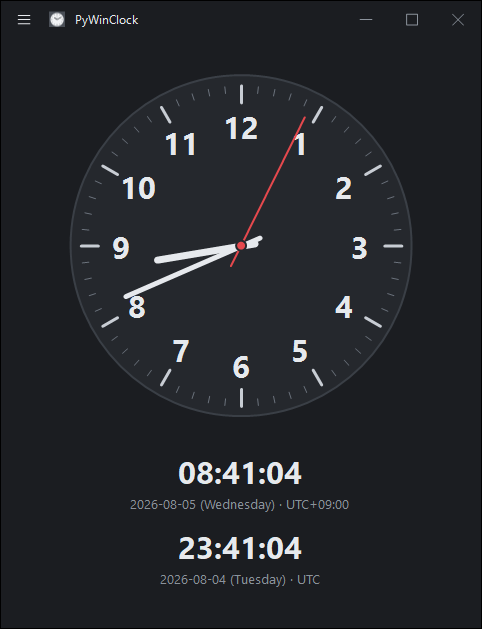
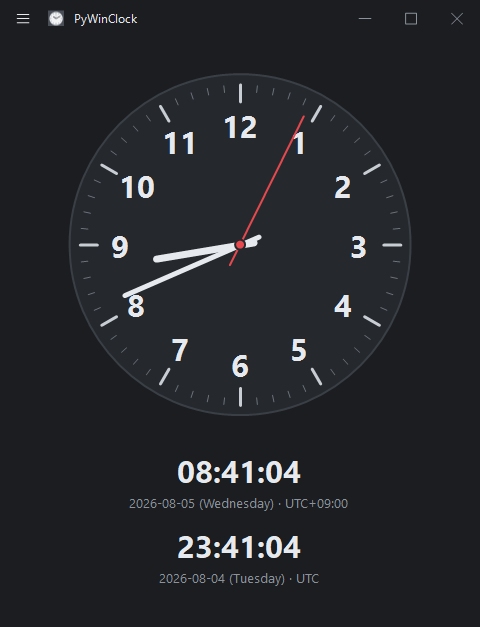
Repaint the smooth second hand only when its tip moves a pixel
- Track the drawn second-hand tip and skip ticks that move it less than
  one pixel; labels still trigger a full repaint every second.
- README: rewrite in the author's format, keep one screenshot and crop
  its 1px black border.

diff --git a/source/clockbox.py b/source/clockbox.py
@@ -33,9 +33,12 @@ class ClockCanvas(Canvas):
     smooth = True
     face_key = None
     face_bitmap = None
+    drawn_tip = None
 
     NUMERAL_RATIO = 0.125
     RIM_WIDTH = 2
+    SECOND_LENGTH = 0.84
+    MINIMAL_SECOND_LENGTH = 0.70
 
     TICK_OUTER = 0.97
     TICK_INNER = 0.90
@@ -61,6 +64,21 @@ class ClockCanvas(Canvas):
         minutes = now.minute + seconds / 60
         hours = now.hour % 12 + minutes / 60
         return hours / 12, minutes / 60, seconds / 60
+
+    def get_second_tip(self, face):
+        if self.preset == 'minimal':
+            length = face * self.MINIMAL_SECOND_LENGTH
+        else:
+            length = (face - self.RIM_WIDTH / 2) * self.SECOND_LENGTH
+        angle = math.radians(self.get_fractions()[2] * 360)
+        return (length * math.sin(angle), length * math.cos(angle))
+
+    def is_tip_moved(self):
+        if self.drawn_tip is None:
+            return True
+        width, height = self.GetClientSize()
+        x, y = self.get_second_tip(self.radius or min(width, height) / 2)
+        return math.hypot(x - self.drawn_tip[0], y - self.drawn_tip[1]) >= 1
 
     def get_background(self, width, height):
         face = self.radius or min(width, height) / 2
@@ -94,6 +112,7 @@ class ClockCanvas(Canvas):
         face = self.radius or min(width, height) / 2
         if not self.has_face(face):
             return
+        self.drawn_tip = self.get_second_tip(face)
         if self.preset == 'minimal':
             self.draw_minimal_hands(gc, cx, cy, face)
         else:
@@ -134,7 +153,7 @@ class ClockCanvas(Canvas):
         hours, minutes, seconds = self.get_fractions()
         self.draw_hand(gc, cx, cy, hours, radius * 0.50, 7, theme['hand'])
         self.draw_hand(gc, cx, cy, minutes, radius * 0.74, 5, theme['hand'])
-        self.draw_hand(gc, cx, cy, seconds, radius * 0.84, 2, theme['second'])
+        self.draw_hand(gc, cx, cy, seconds, radius * self.SECOND_LENGTH, 2, theme['second'])
 
         gc.SetPen(wx.Pen(wx.Colour(theme['face']), 2))
         gc.SetBrush(wx.Brush(wx.Colour(theme['second'])))
@@ -161,7 +180,8 @@ class ClockCanvas(Canvas):
         self.draw_hand(gc, cx, cy, minutes, radius * 0.82,
                        max(2, round(radius * 0.014)), theme['dim'])
         # a 1px diagonal loses half its weight to antialiasing, so it gets the tick colour
-        self.draw_hand(gc, cx, cy, seconds, radius * 0.70, 1, theme['tick_major'])
+        self.draw_hand(gc, cx, cy, seconds, radius * self.MINIMAL_SECOND_LENGTH, 1,
+                       theme['tick_major'])
 
         knob = max(3, round(radius * 0.035))
         gc.SetPen(wx.TRANSPARENT_PEN)
@@ -315,5 +335,5 @@ class ClockBox(wx.Panel):
         self.canvas.now = local
         if changed:
             self.Layout()
-        if changed or self.canvas.smooth:
+        if changed or self.canvas.smooth and self.canvas.is_tip_moved():
             self.canvas.Refresh()

diff --git a/README.md b/README.md
@@ -1,118 +1,23 @@
-# PyWinClock
-
-A Windows clock app drawn entirely on a wxPython canvas. Written as a replacement for
-TimeKit, a UWP clock app that has been delisted from the Microsoft Store.
-
-On a PC with Smart App Control enabled, a sideloaded MSIX cannot run without a trusted
-signature. Running local sources directly through `pythonw.exe` is not subject to that
-restriction, so this app is deliberately **not** packaged into a distributable build.
-
-![Clock](assets/images/screenshot-001.png)
-![Menu](assets/images/screenshot-006.png)
-![World](assets/images/screenshot-005.png)
-![Stopwatch](assets/images/screenshot-002.png)
-![Countdown](assets/images/screenshot-003.png)
-![Settings](assets/images/screenshot-004.png)
-
 ## Features
 
-- **Clock** — analog dial rendered with `wx.GraphicsContext` (smooth sweeping second hand),
-  digital readout, `2026-08-03 (Monday) · UTC+09:00` date line
-- **World** — an equirectangular map with the daylight side lit and a dot per city, over a
-  list of times with the date and the offset from local time as `±HH:MM`. Each row carries
-  a sun or a moon from the actual solar elevation there. Map and list point at each other:
-  hovering a dot outlines its row in the accent colour, and hovering a row grows its dot.
-  A toolbox floats at the bottom right: the plus adds a city (search by name or time zone),
-  the pencil turns on editing so every removable row shows a cross.
-- **Stopwatch** — start/pause, reset, and a `Laps / Time / Total` table that marks the
-  fastest and slowest lap. Newest lap first, scrolls with the wheel.
-- **Countdown** — progress ring over a rounded `HH:MM:SS` field with a minus and a plus
-  sitting inside it, each press moving the time by a minute. The field takes digits and
-  colons only and reads whatever is written — `90`, `0:0`, `01:30`, `00:01:30` all mean
-  the same thing — then writes it back as `HH:MM:SS` once you leave it. Start/pause/reset
-  below, and a blinking `DONE` with a beep at zero
-- **Settings** — 12/24-hour, local/UTC (the dial follows it too), always on top, auto hide
-  menu, dark theme. The last entry of the side menu, pinned to its bottom.
+* Analog and digital clock, with local time and UTC.
+* World clock on a day and night map, with cities searched by name or time zone.
+* Stopwatch with laps, marking the fastest and slowest.
+* Countdown with a progress ring and a beep at zero.
+* Classic and minimal clock faces, smooth or ticking second hand.
+* Auto, dark and light themes.
+* World map from Natural Earth, public domain.
 
-Both timers read `00:00:00.00` on one line, with the hundredths set smaller and aligned to
-the baseline of the large digits. Start / Lap / Reset are round icon buttons; the primary
-one is filled with the accent colour and swaps between play and pause. Settings is a stack
-of Windows 11 style cards — title, description and an On/Off switch — grouped under
-`Clock`, `Window` and `Appearance`.
+## Screenshot
 
-The window has no system caption. The app draws the whole header itself: a hamburger at the
-left, the icon and the title beside it, and minimize / maximize / close at the right. The
-caption strip that Windows still keeps above the client area is painted with the theme
-background through `DWMWA_CAPTION_COLOR`, so nothing seams. That strip counts as part of
-the header, so the hamburger, the title and the caption buttons are centred on the two
-together rather than on the canvas alone. Dragging, snapping and edge
-resizing stay native; only maximizing is done by hand, because a window without a caption
-would otherwise spill past the screen and cover the taskbar.
+![screenshot](/assets/images/screenshot-001.png)
 
-Pages are chosen from the side menu the hamburger opens. It slides in over the page, holds
-the mouse while it is open so a click anywhere else dismisses it, and closes on `Esc`.
+## How to install
 
-The header stays hidden until the pointer is over the window, so the clock face is
-uninterrupted while idle. It keeps its space rather than collapsing, so nothing shifts when
-it appears. It stays visible on the Settings page and while the menu is open, so there is
-always a way back.
+* Download or clone a repository, install Python packages in the requirements.pip file, then execute source/main.pyw with pythonw.exe. Python 3.x is required.
+* Settings > Start menu > Create puts a shortcut in the Start menu.
 
-Dark and light themes cover the window frame too, via DWM immersive dark mode. Window size
-and settings persist automatically, and only one instance runs at a time
-(`wininstance.has_running_instance`).
+## Supported platforms
 
-Settings, including the chosen cities, are stored in `%APPDATA%\PyWinClock\settings.json`.
-
-The map is drawn from `assets/map/land.json`, a reduced copy of the public domain Natural
-Earth `ne_110m_land` polygons. `makemap.py` produces it; the downloaded original is not
-kept in the repository. Time zones come from `zoneinfo` with the `tzdata` package.
-
-Every control is drawn on canvas rather than using native widgets. Native `wx.Button`,
-`wx.CheckBox`, `wx.ListCtrl` and `wx.adv.DatePickerCtrl` ignore background colours on
-Windows and stay light in a dark theme, so they are replaced by `controls.RoundButton`,
-`controls.SettingCard`, `stopwatchbox.LapList` and plain `wx.TextCtrl` fields. A
-`wx.TextCtrl` cannot round its own corners either, so `countdownbox.FieldBox` draws the
-rounded plate and seats the entry and its two step buttons inside it.
-
-## Requirements
-
-Python 3.13 with `wxPython`, `psutil`, `pywin32` and `tzdata`.
-
-## Run
-
-```
-pythonw source\main.pyw
-```
-
-## Start menu entry
-
-```
-python source\makeicon.py
-python source\makeshortcut.py
-```
-
-`makeshortcut.py` creates `Start Menu\Programs\PyWinClock.lnk` pointing at
-`pythonw.exe "source\main.pyw"`. Remove that `.lnk` to uninstall.
-
-## Layout
-
-| File | Role |
-| --- | --- |
-| `source/main.pyw` | Entry point. Checks for a running instance, then calls `mainapp` |
-| `source/mainapp.py` | `MainFrame`, page wiring, timer, theme and settings |
-| `source/clockbox.py` | Analog clock canvas and clock tab |
-| `source/worldbox.py` | World map, city list and city picker |
-| `source/cities.py` | City table: name, time zone and coordinates |
-| `source/stopwatchbox.py` | Stopwatch canvas, lap table and stopwatch tab |
-| `source/countdownbox.py` | Countdown ring canvas and countdown tab |
-| `source/settingsbox.py` | Settings page of cards, opened from the side menu |
-| `source/titlebar.py` | Canvas-drawn title bar replacing the system caption |
-| `source/sidemenu.py` | Sliding side menu opened by the hamburger |
-| `source/icons.py` | Line glyphs for the title bar and the side menu |
-| `source/controls.py` | Canvas-drawn buttons, round icon buttons and setting cards |
-| `source/utilities.py` | `Canvas` base class, themes, fonts, settings, DWM frame |
-| `source/wininstance.py` | Single instance check |
-| `source/shortcut.py` | Shortcut helper |
-| `source/makeshortcut.py` | Creates the start menu link |
-| `source/makeicon.py` | Generates `assets/icon/icon.ico` |
-| `source/makemap.py` | Generates `assets/map/land.json` from Natural Earth |
+* Microsoft Windows 11
+* Other versions of Windows have not been tested yet.
